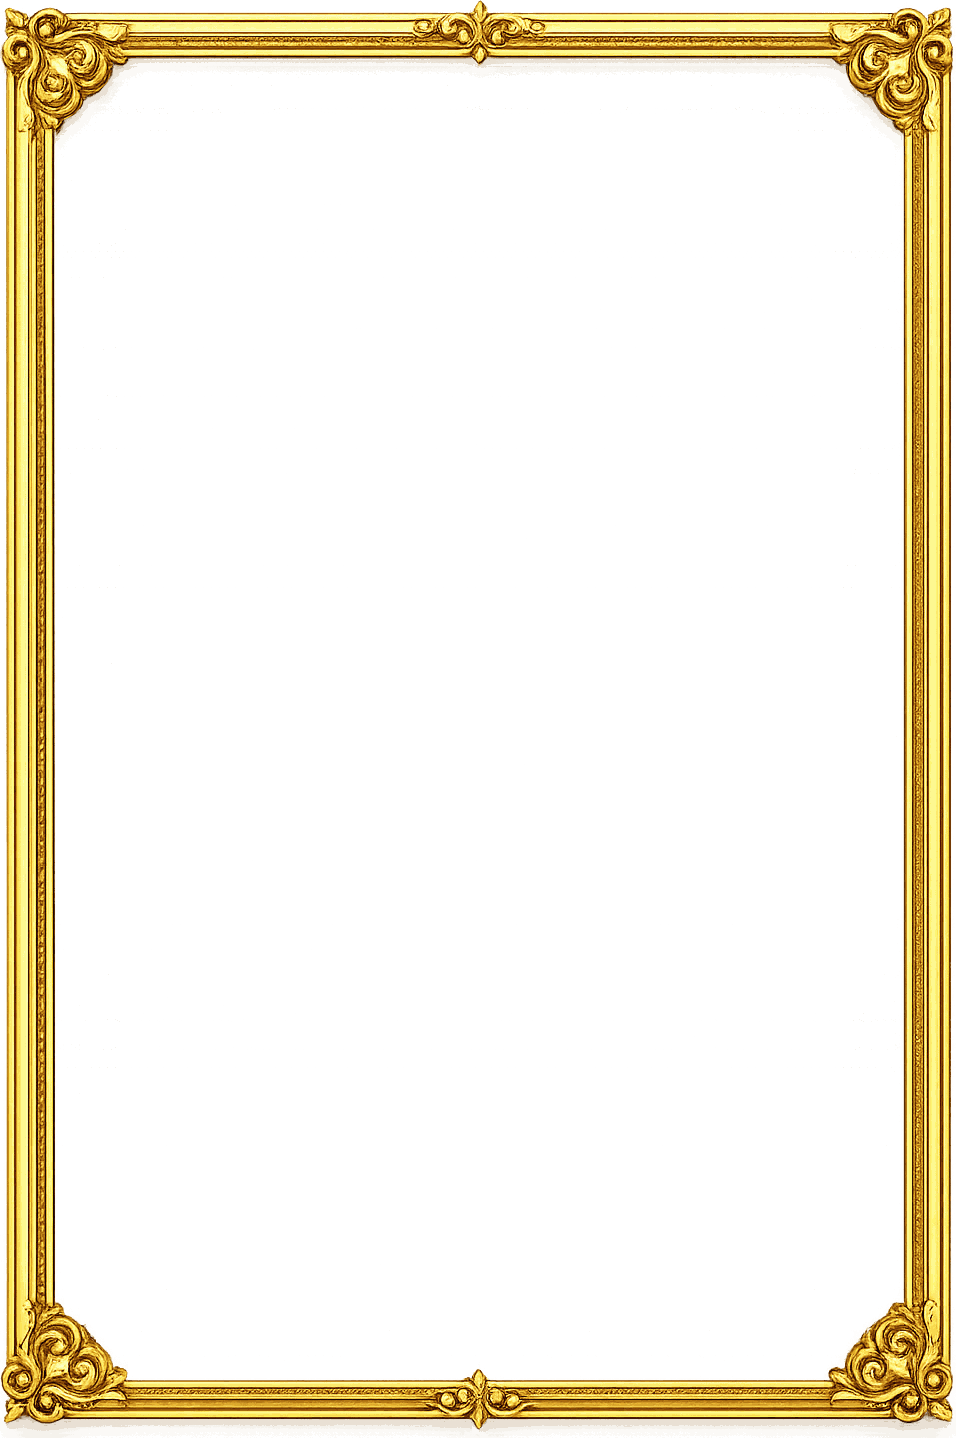
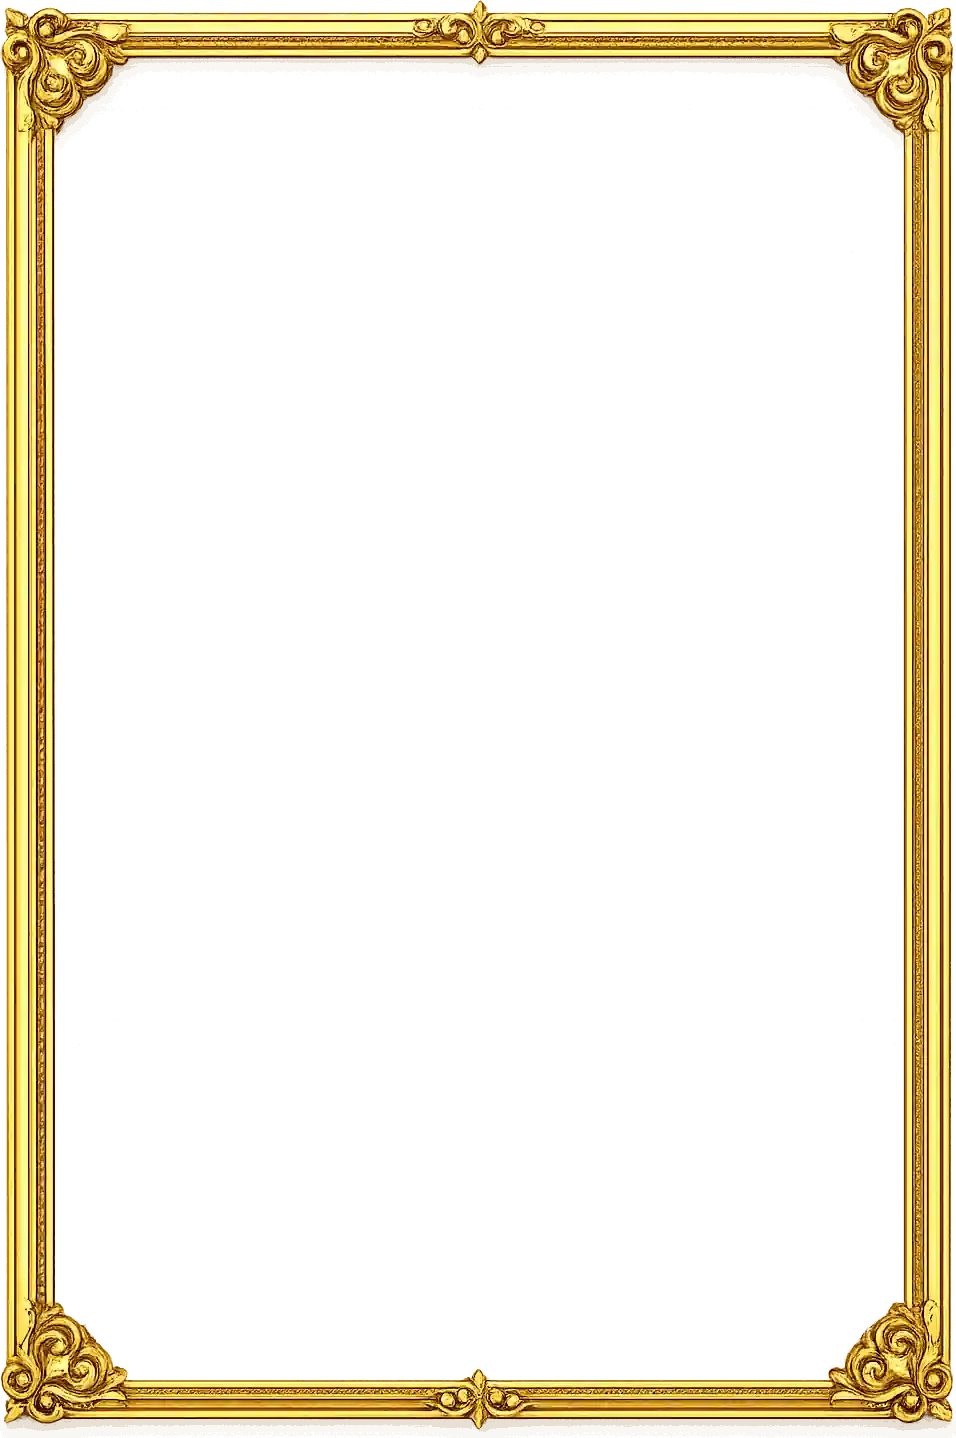
Reduce gold editorial frame file size

Changed region(s): [[0.0, 0.0, 1.0, 1.0]]

diff --git a/editorial-board.html b/editorial-board.html
@@ -264,7 +264,7 @@ align-items:stretch
   content:"";
   position:absolute;
   inset:0;
-  background-image:url("/frame-gold.png");
+  background-image:url("/frame-gold.webp");
   background-position:center;
   background-repeat:no-repeat;
   background-size:100% 100%;
